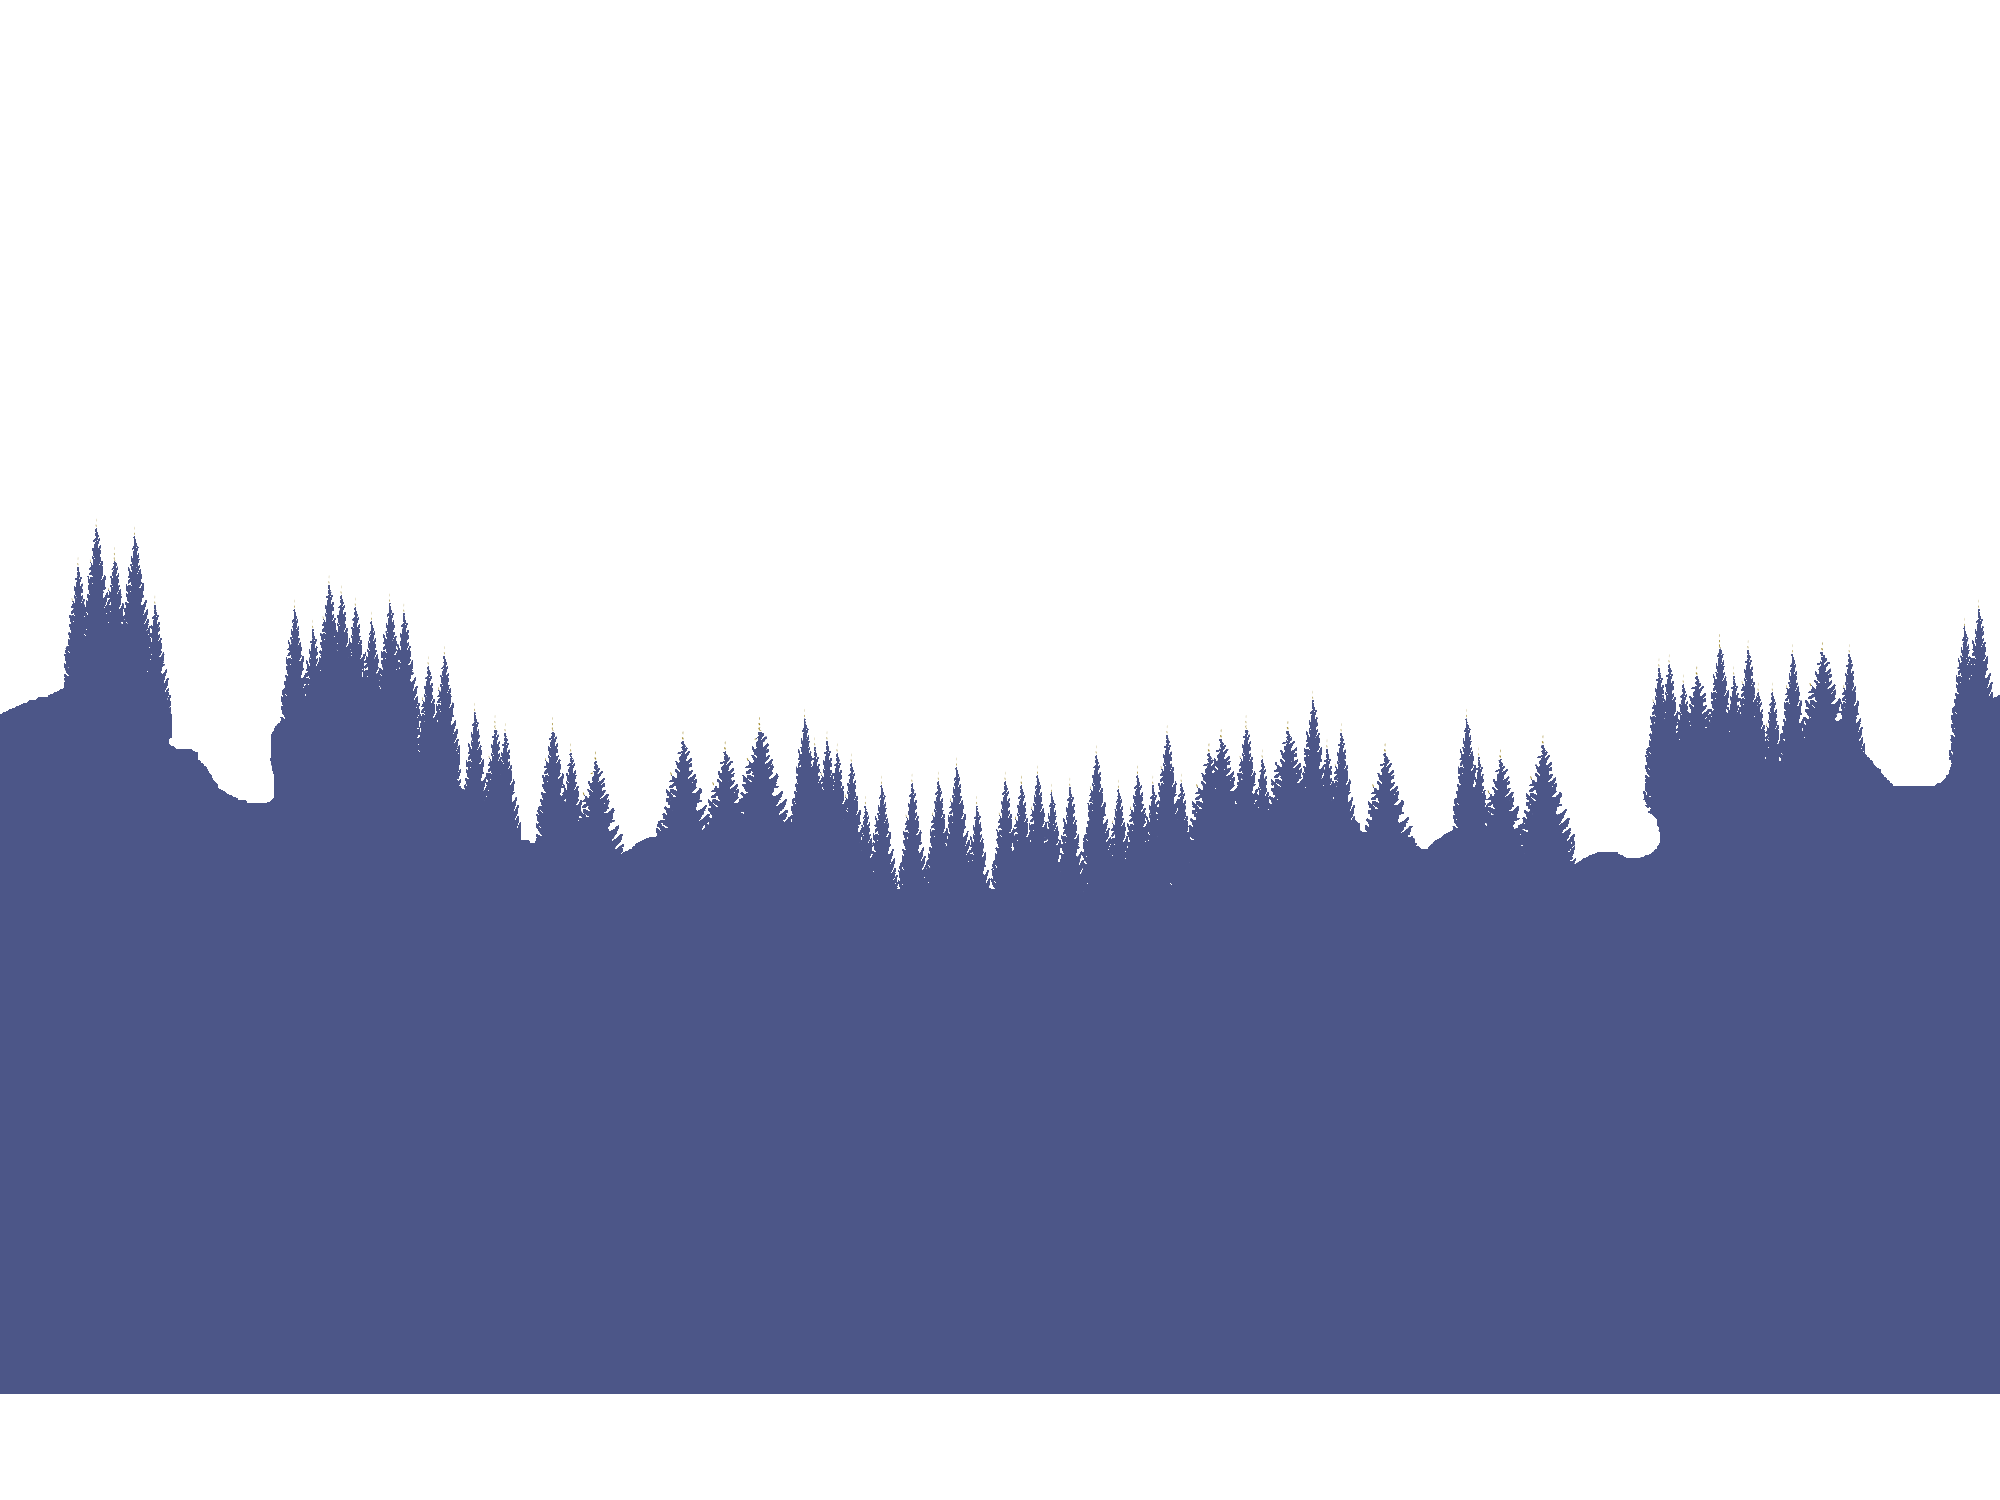
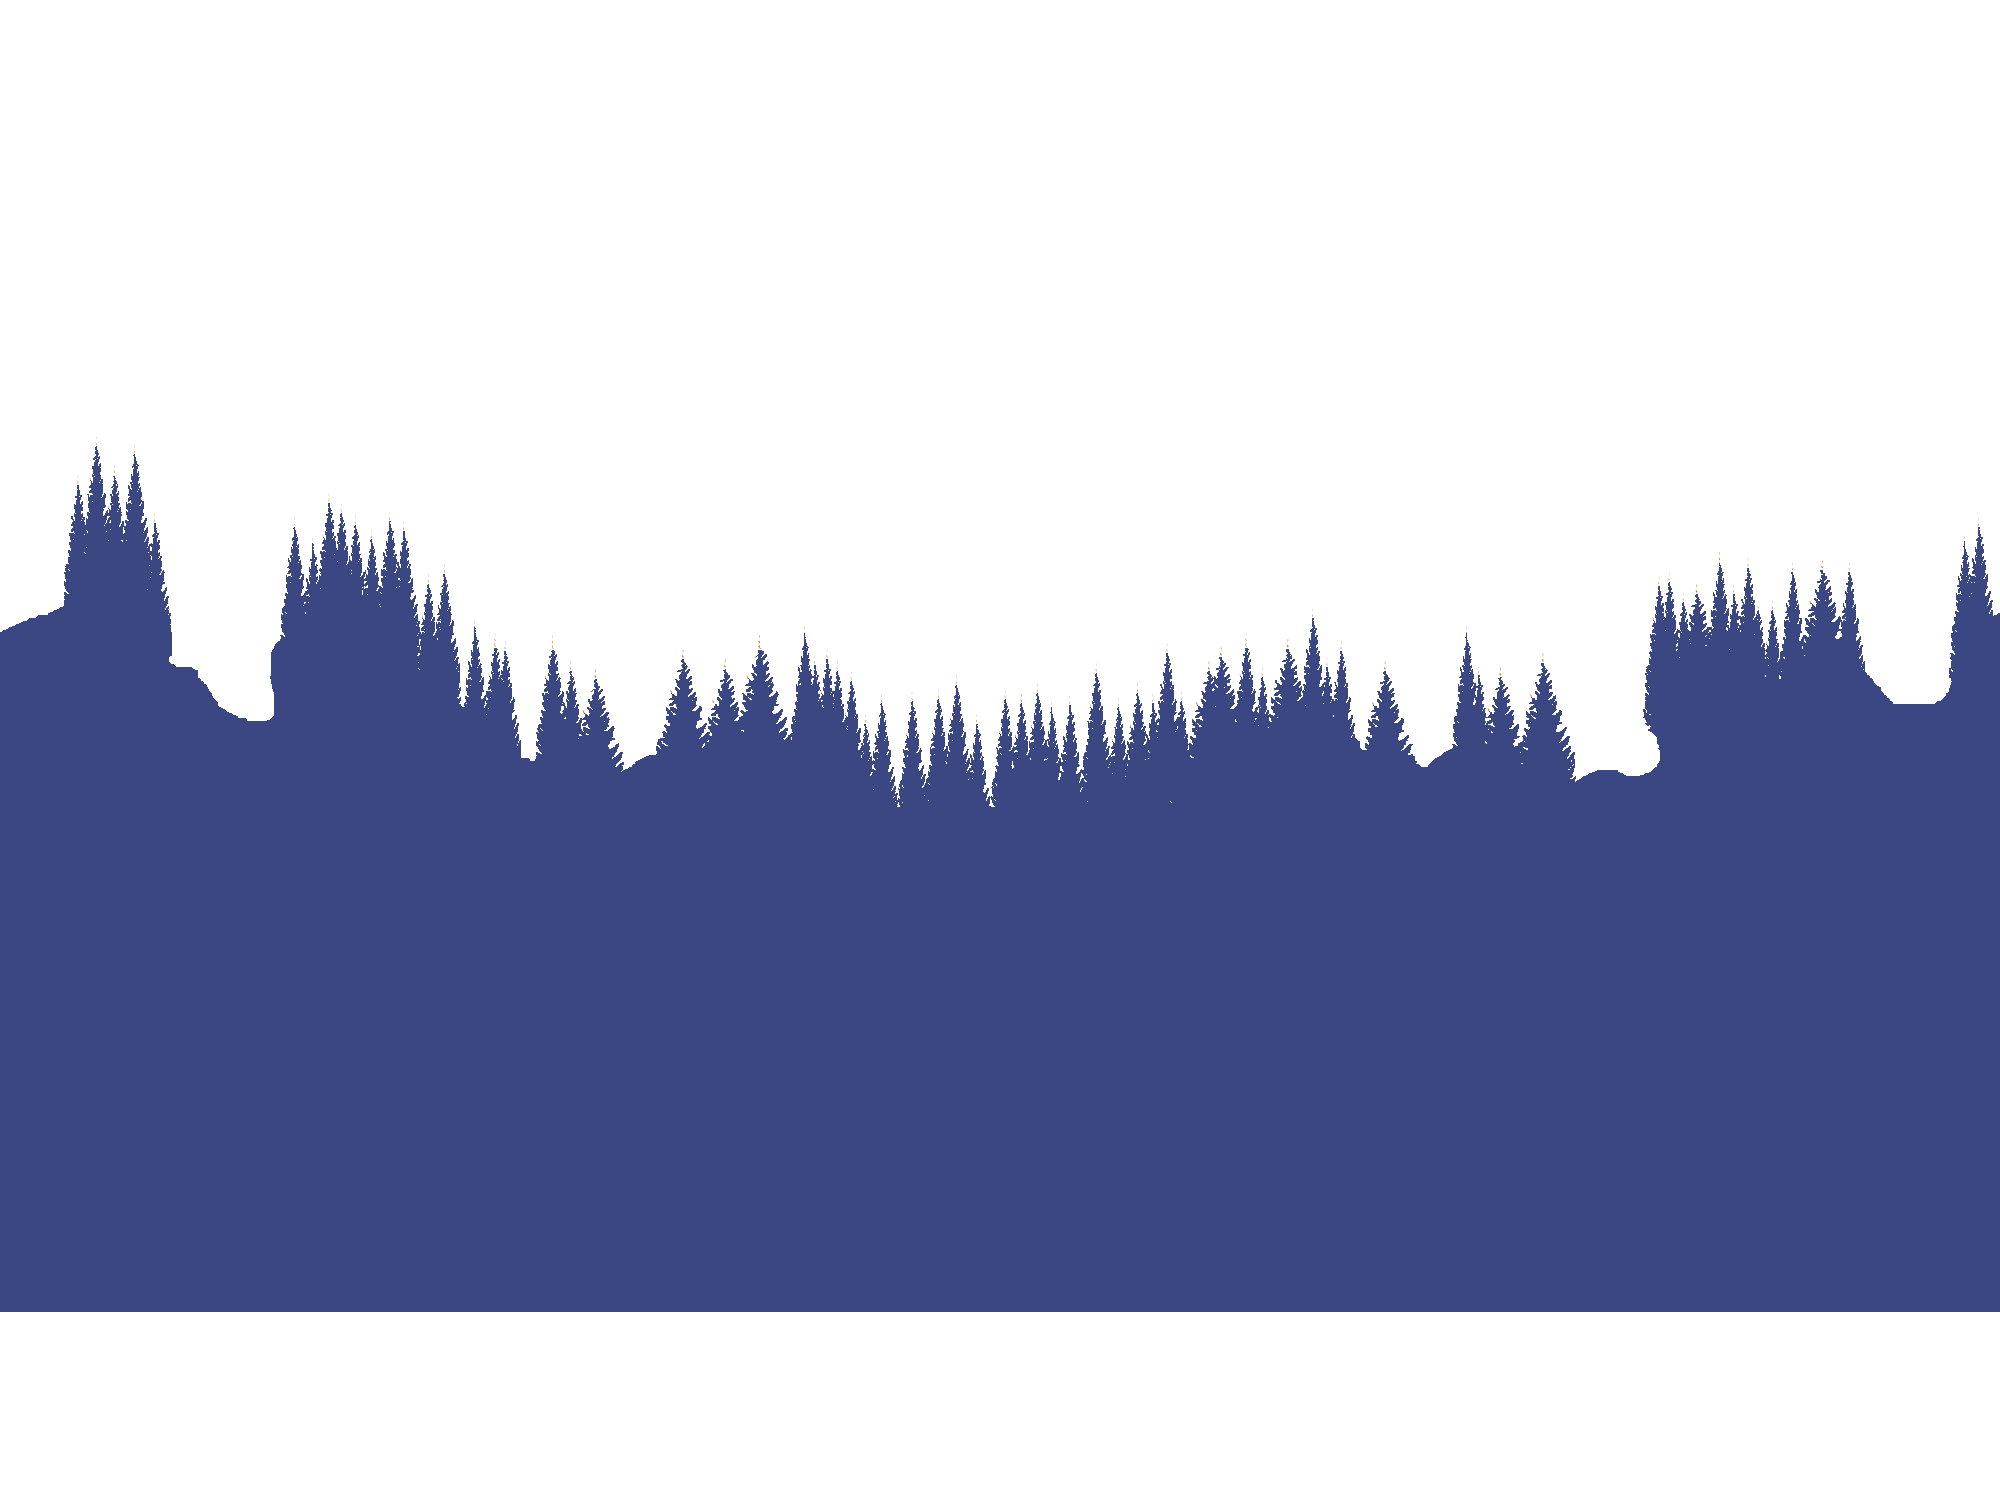
Add files via upload

Changed region(s): [[0.0, 0.3067, 1.0, 0.5827], [0.0, 0.8587, 1.0, 0.9507]]

diff --git a/index.html b/index.html
@@ -34,7 +34,7 @@
     <div id="parallax-container">
         <div style="background: url('0.png');"></div>
         <div style="background: url(2.png);"></div>
-        <div style="background: url(3.png);"></div>
+        <div style="background: url(3x.png);"></div>
         <div style="background: url(4.png)"></div>
         <div style="background: url(5.png)"></div>
         <div style="background: url(6.png)"></div>

diff --git a/style.css b/style.css
@@ -5,7 +5,7 @@
     padding: 0;
     box-sizing: border-box;
     scroll-behavior: smooth;
-background-color: #010424;
+
 }
 
 
@@ -125,7 +125,9 @@ width: 100%;
   .container-1{
     display: flex;
     align-items: center;
-    justify-content: center
+    justify-content: center;
+background-color: rgb(25, 36, 87);
+
   }
   img {
     max-width: 68%;
